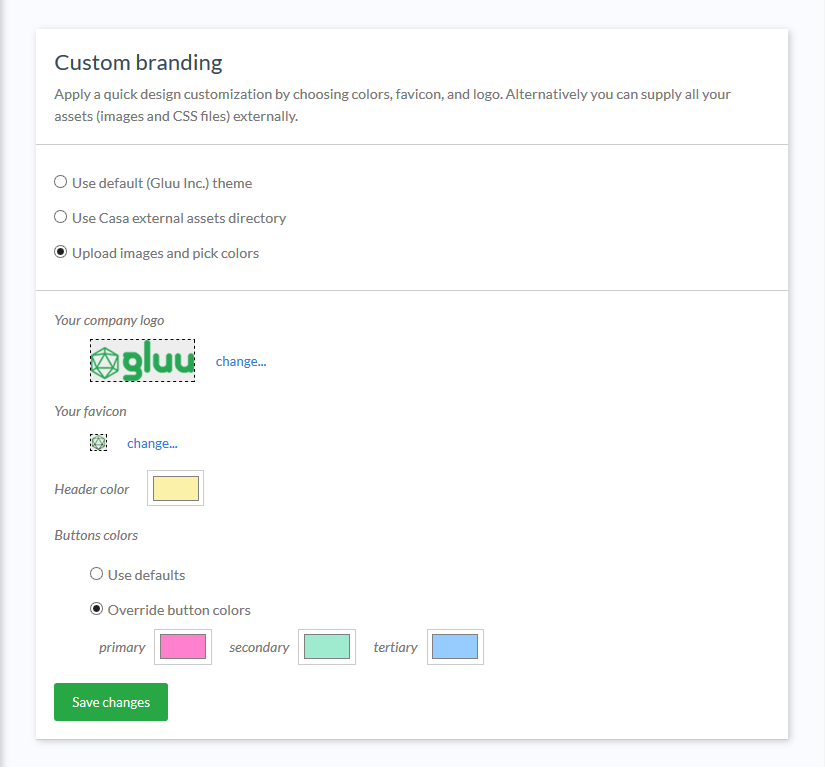
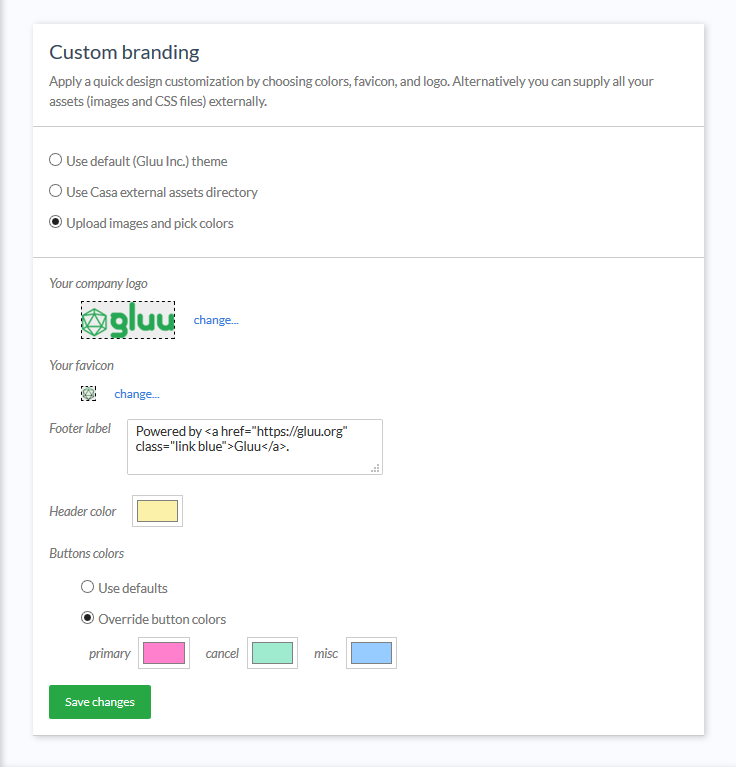
Doc fixes for https://github.com/GluuFederation/casa/issues/23

diff --git a/3.1.4/source/administration/custom-branding.md b/3.1.4/source/administration/custom-branding.md
@@ -20,7 +20,7 @@ Click on `Custom branding` in the admin console, and choose `Upload images and p
 
 Once you supply your files, color values, and footer text, click on `Save` and see the changes take immediately by navigating to a different page or opening a new browser tab. Repeat the process till you get the combination that best matches your organization's look and feel.
 
-With "Primary buttons" we refer to the vast majority of buttons that trigger some action such as saving, updating or accepting - whether in the user pages or the admin UI itself.  "Tertiary" covers undo, close or cancel, and "Secondary" for anything that does not fit any of the previous usages. 
+With "Primary buttons" we refer to the vast majority of buttons that trigger some action such as saving, updating or accepting - whether in the user pages or the admin UI itself. "Cancel" covers undo, close or cancel, while "Misc" is for anything not fitting any of the previous usages.
 
 You can choose "Use defaults" if you feel comfortable with the [Bootstrap-like](https://getbootstrap.com/docs/4.0/components/buttons/) colors offered in Gluu Casa.
 
